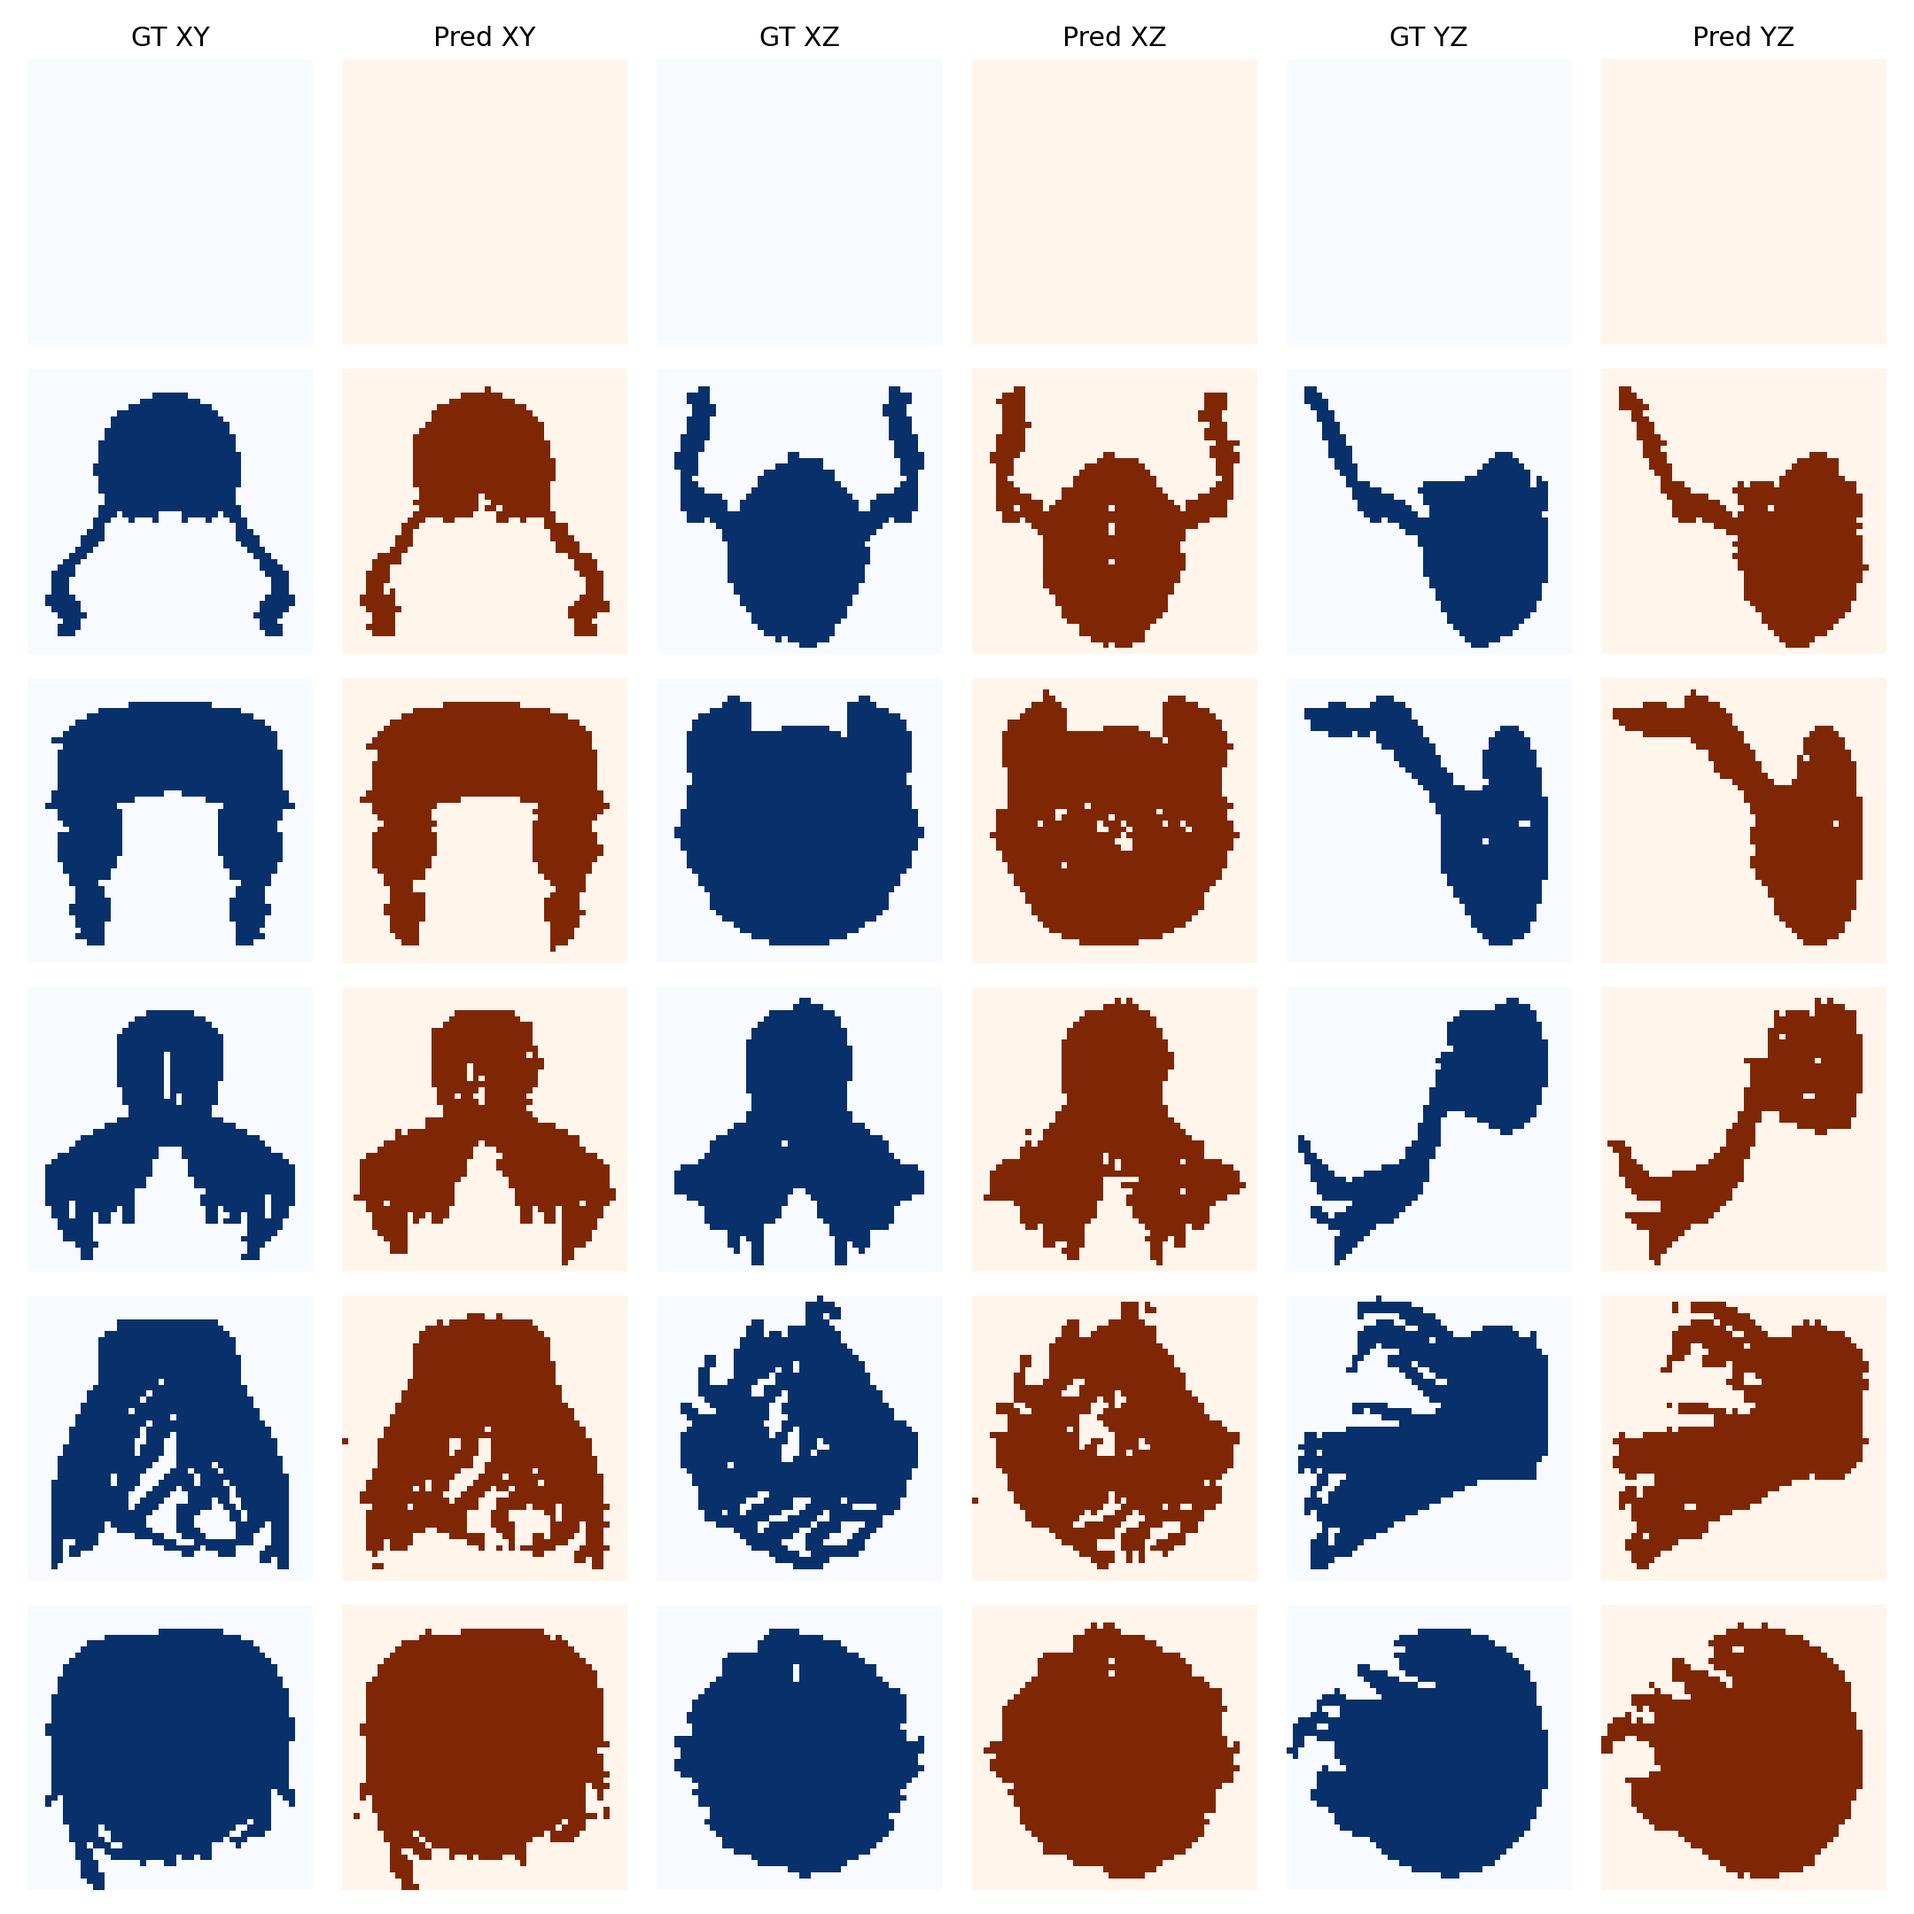
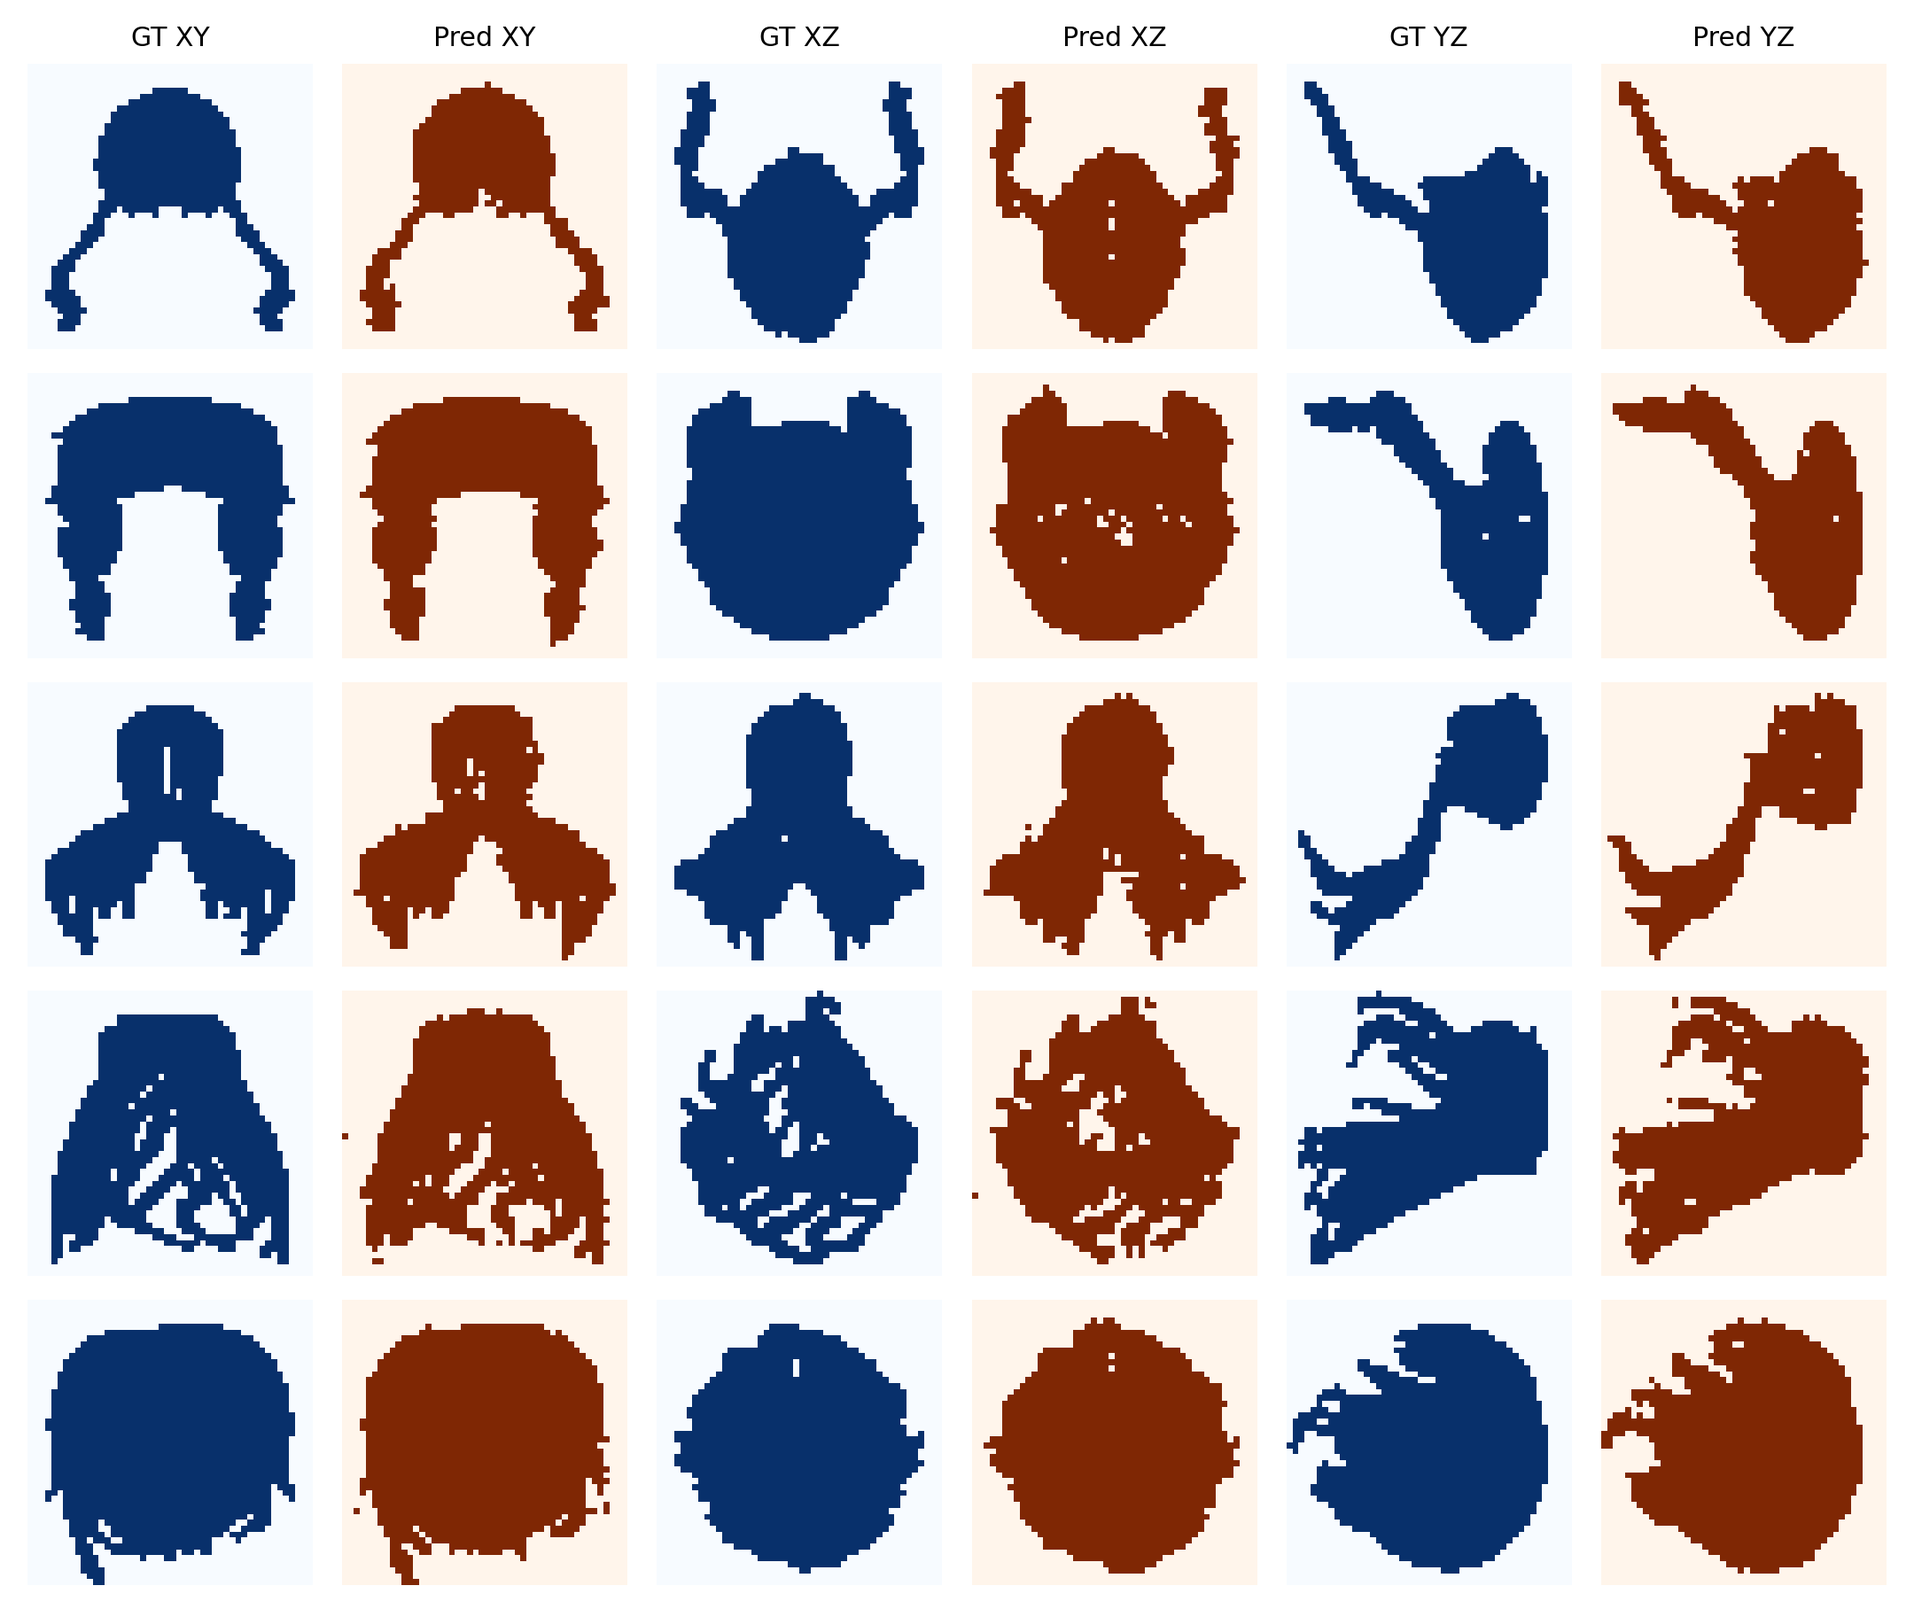
Clean generator visuals for white presentation

diff --git a/src/styles.css b/src/styles.css
@@ -462,7 +462,7 @@ th:first-child { text-align: left; }
 .pipeline-boundary { margin: 14px 0 28px; color: var(--muted); font-size: .72rem; }
 .generator-studies { display: grid; gap: 18px; }
 .generator-studies > article { display: grid; grid-template-columns: minmax(0, 1.45fr) minmax(270px, .75fr); min-height: 320px; overflow: hidden; border: 1px solid var(--line); border-radius: 14px; background: white; }
-.generator-studies figure { margin: 0; min-height: 320px; background: #0a1119; }
+.generator-studies figure { margin: 0; min-height: 320px; background: #fff; }
 .generator-studies img { width: 100%; height: 100%; max-height: 470px; object-fit: contain; display: block; }
 .generator-studies > article > div { padding: 30px; align-self: center; }
 .generator-studies > article > div > span { color: var(--green); font-size: .62rem; font-weight: 800; letter-spacing: .09em; text-transform: uppercase; }
